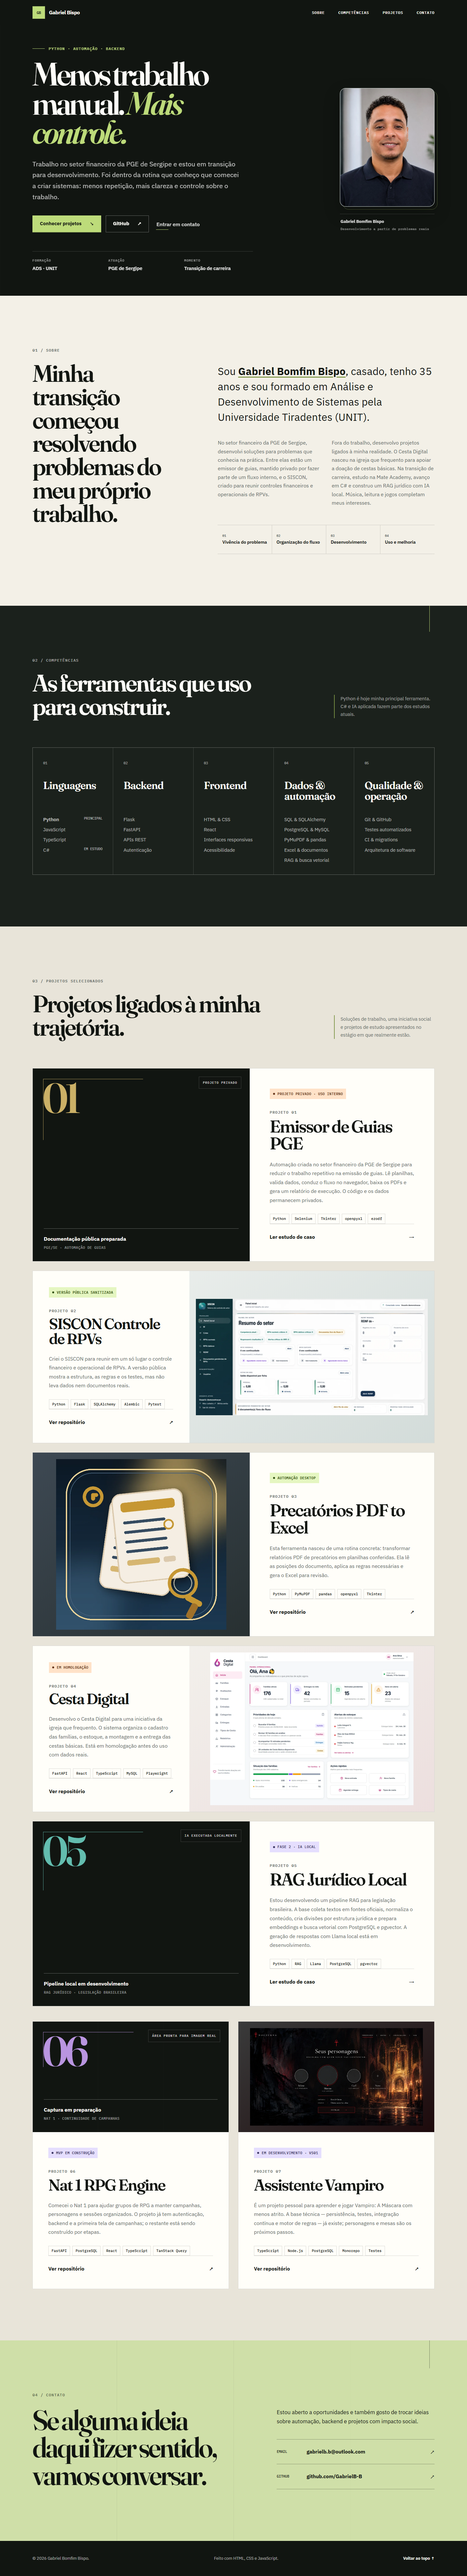
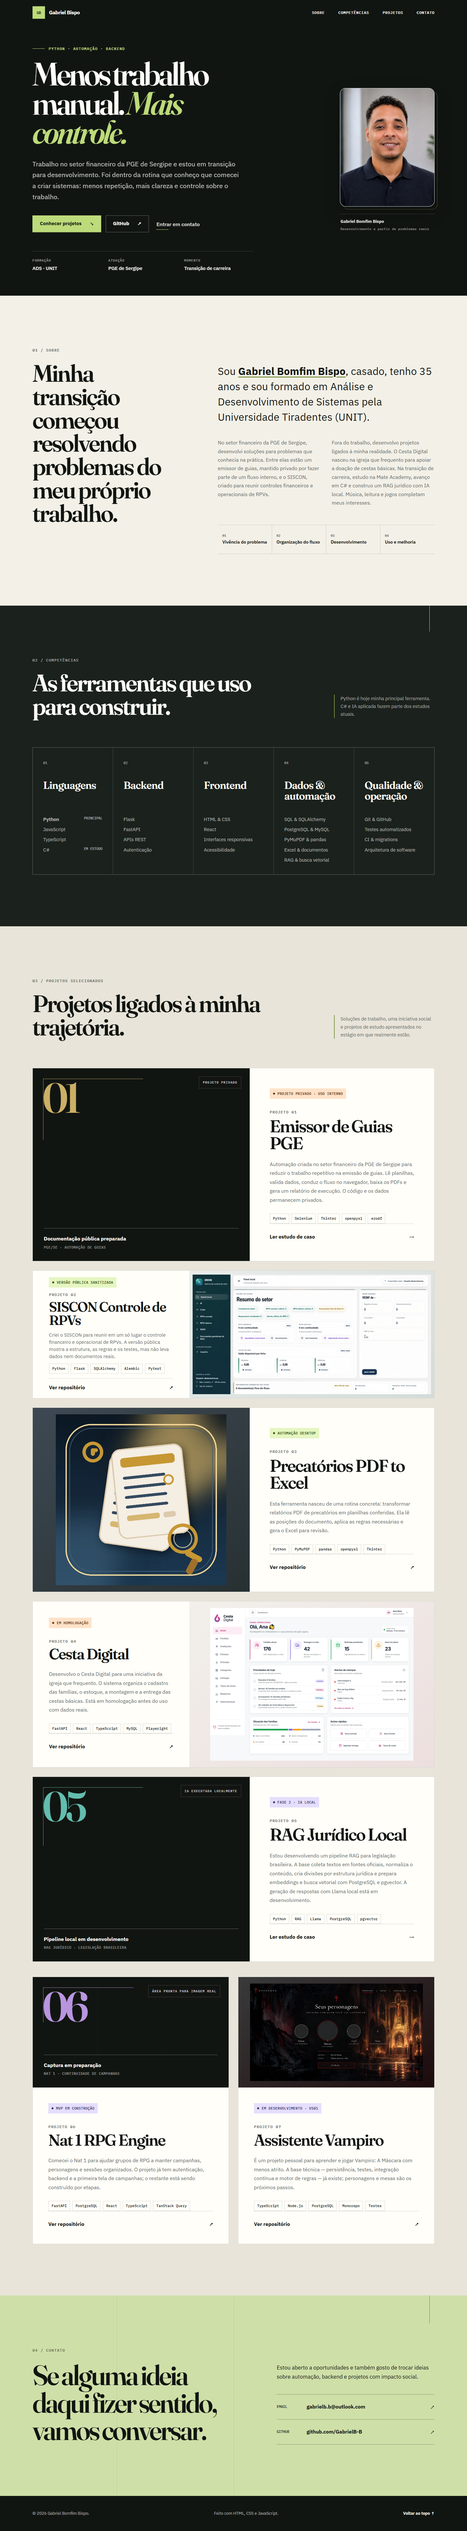
fix: align panoramic project media to content

diff --git a/index.html b/index.html
@@ -250,7 +250,7 @@
                         </div>
                     </article>
 
-                    <article class="project-card project-card-reverse project-card-media-wide" style="--project-accent: #bddb7a" data-reveal>
+                    <article class="project-card project-card-reverse project-card-media-wide project-card-media-panorama" style="--project-accent: #bddb7a" data-reveal>
                         <div class="project-media project-media-image" role="img" aria-label="Painel inicial sanitizado do SISCON com indicadores financeiros e operacionais" data-media-width="1600" data-media-height="800" style="--project-image: url('assets/projects/siscon.webp'); --media-surface: #e3e8e5; --media-tint: rgba(20, 76, 80, 0.08)">
                             <div class="media-overlay"><span>Painel demonstrativo · dados sanitizados</span></div>
                         </div>

diff --git a/style.css b/style.css
@@ -782,6 +782,39 @@ ol {
     font-size: clamp(2.25rem, 3.2vw, 3.25rem);
 }
 
+.project-card-media-panorama .project-body {
+    min-height: 0;
+    padding-block: 20px;
+}
+
+.project-card-media-panorama .project-number {
+    margin-top: 12px;
+}
+
+.project-card-media-panorama .project-body h3 {
+    font-size: clamp(2.25rem, 2.9vw, 3rem);
+}
+
+.project-card-media-panorama .project-description {
+    margin-top: 12px;
+    font-size: 0.95rem;
+    line-height: 1.45;
+}
+
+.project-card-media-panorama .project-tags {
+    margin-top: 12px;
+}
+
+.project-card-media-panorama .project-link {
+    margin-top: 14px;
+    padding-top: 14px;
+}
+
+.project-card-media-panorama .project-media-image {
+    min-height: 0;
+    padding: 10px;
+}
+
 .project-media {
     position: relative;
     min-height: 500px;
